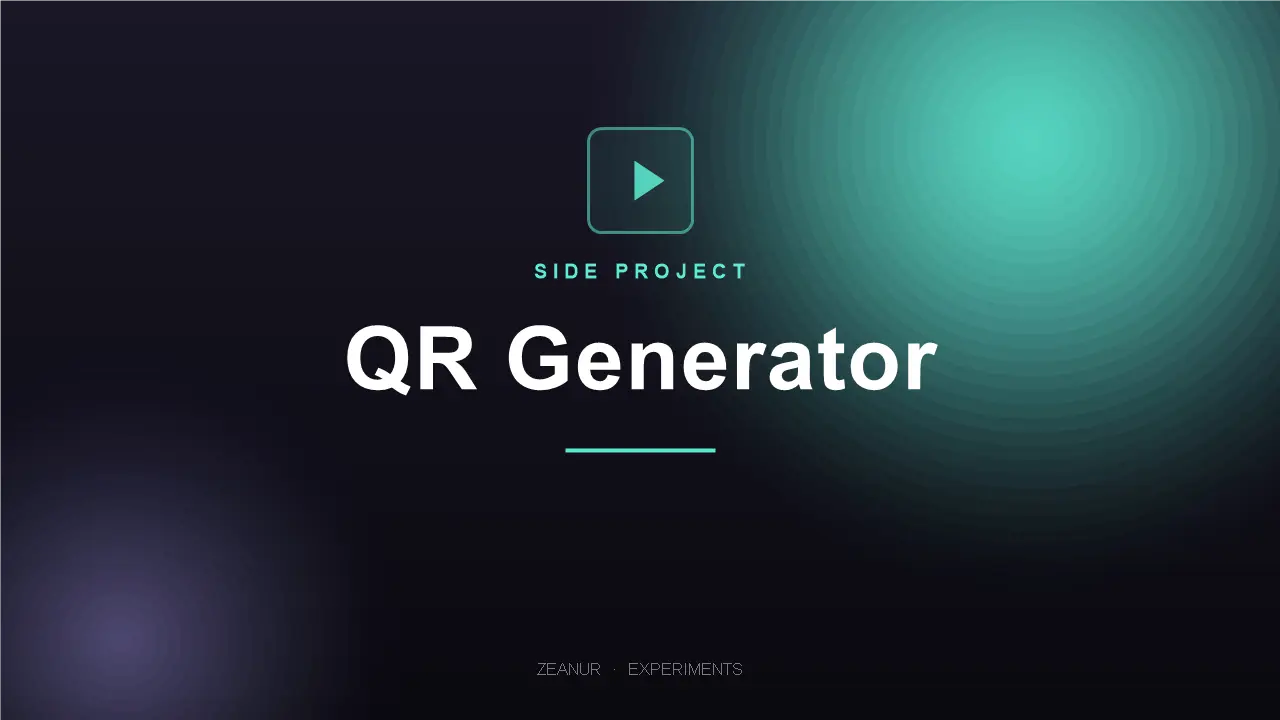
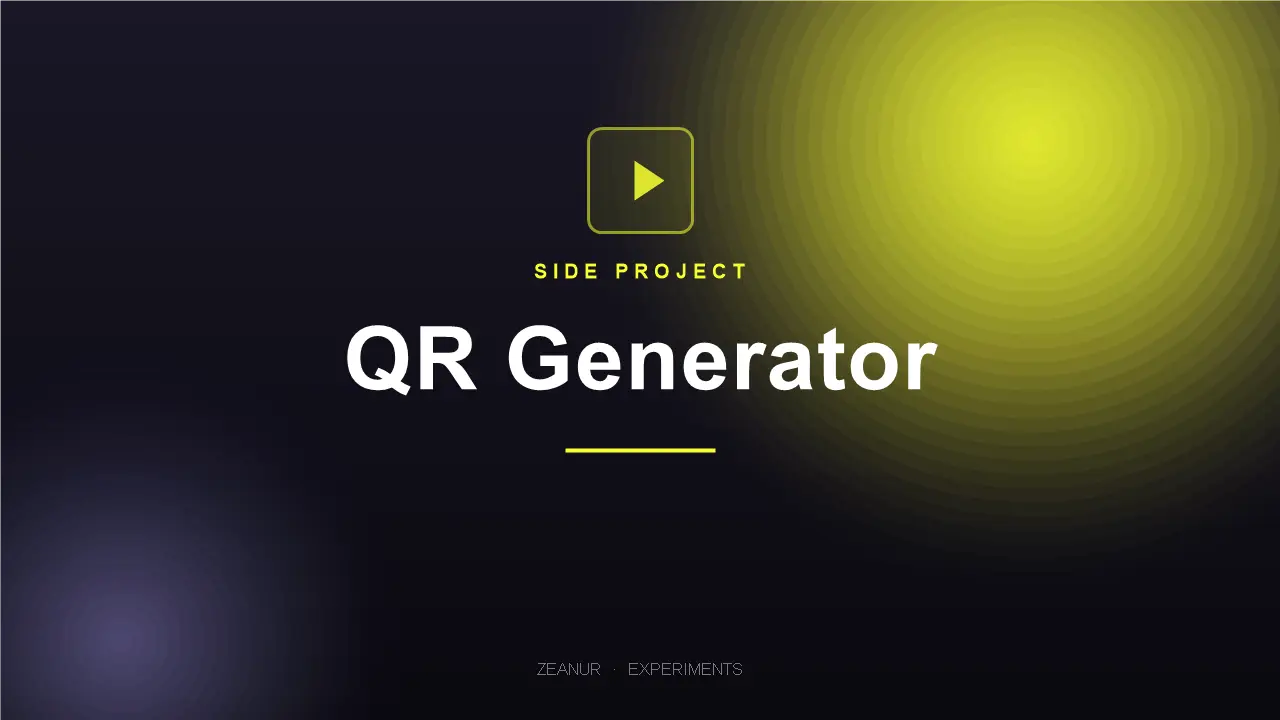
fix: use brand yellow (#f8ff31) accent in email template, monogram, and posters

Changed region(s): [[0.4062, 0.0, 1.0, 0.6722], [0.4375, 0.6111, 0.5625, 0.6417]]

diff --git a/src/app/api/contact/route.ts b/src/app/api/contact/route.ts
@@ -96,7 +96,7 @@ export async function POST(request: NextRequest) {
                 <table role="presentation" cellpadding="0" cellspacing="0" border="0" width="100%">
                   <tr>
                     <td style="vertical-align:middle">
-                      <span style="display:inline-block;width:36px;height:36px;background-color:#0a090f;border:1px solid rgba(94,234,212,0.4);border-radius:10px;text-align:center;line-height:36px;color:#ffffff;font-family:Arial,Helvetica,sans-serif;font-weight:800;font-size:18px">Z</span>
+                      <span style="display:inline-block;width:36px;height:36px;background-color:#0a090f;border:1px solid rgba(248,255,49,0.4);border-radius:10px;text-align:center;line-height:36px;color:#ffffff;font-family:Arial,Helvetica,sans-serif;font-weight:800;font-size:18px">Z</span>
                     </td>
                     <td style="vertical-align:middle;padding-left:14px">
                       <div style="color:#f4f2ff;font-family:Arial,Helvetica,sans-serif;font-weight:700;font-size:15px;letter-spacing:0.5px">ZEANUR RAHAMAN ZEON</div>
@@ -111,8 +111,8 @@ export async function POST(request: NextRequest) {
             </tr>
             <tr>
               <td style="padding:36px 40px 0">
-                <div style="color:#5eead4;font-family:Arial,Helvetica,sans-serif;font-size:11px;letter-spacing:2px;text-transform:uppercase">[new message]</div>
-                <div style="color:#f4f2ff;font-family:Arial,Helvetica,sans-serif;font-weight:800;font-size:28px;line-height:34px;margin-top:10px">A new inquiry from <span style="color:#5eead4">${escapeHtml(name)}</span></div>
+                <div style="color:#f8ff31;font-family:Arial,Helvetica,sans-serif;font-size:11px;letter-spacing:2px;text-transform:uppercase">[new message]</div>
+                <div style="color:#f4f2ff;font-family:Arial,Helvetica,sans-serif;font-weight:800;font-size:28px;line-height:34px;margin-top:10px">A new inquiry from <span style="color:#f8ff31">${escapeHtml(name)}</span></div>
               </td>
             </tr>
             <tr>
@@ -122,7 +122,7 @@ export async function POST(request: NextRequest) {
             </tr>
             <tr>
               <td style="padding:26px 40px">
-                <div style="border-left:2px solid #5eead4;padding:4px 0 4px 18px;color:#eae6f2;font-family:Arial,Helvetica,sans-serif;font-size:16px;line-height:26px">${escapeHtml(message)}</div>
+                <div style="border-left:2px solid #f8ff31;padding:4px 0 4px 18px;color:#eae6f2;font-family:Arial,Helvetica,sans-serif;font-size:16px;line-height:26px">${escapeHtml(message)}</div>
               </td>
             </tr>
             <tr>
@@ -143,7 +143,7 @@ export async function POST(request: NextRequest) {
                   <tr>
                     <td style="vertical-align:middle;color:#8a8599;font-family:Arial,Helvetica,sans-serif;font-size:11px;letter-spacing:1.5px;text-transform:uppercase">Reply to ${escapeHtml(email)}</td>
                     <td style="vertical-align:middle;text-align:right">
-                      <a href="https://zeanurrahamanzeon.vercel.app" style="color:#5eead4;font-family:Arial,Helvetica,sans-serif;font-size:12px;letter-spacing:1px;text-transform:uppercase;text-decoration:none">zeanurrahamanzeon.vercel.app</a>
+                      <a href="https://zeanurrahamanzeon.vercel.app" style="color:#f8ff31;font-family:Arial,Helvetica,sans-serif;font-size:12px;letter-spacing:1px;text-transform:uppercase;text-decoration:none">zeanurrahamanzeon.vercel.app</a>
                     </td>
                   </tr>
                 </table>
